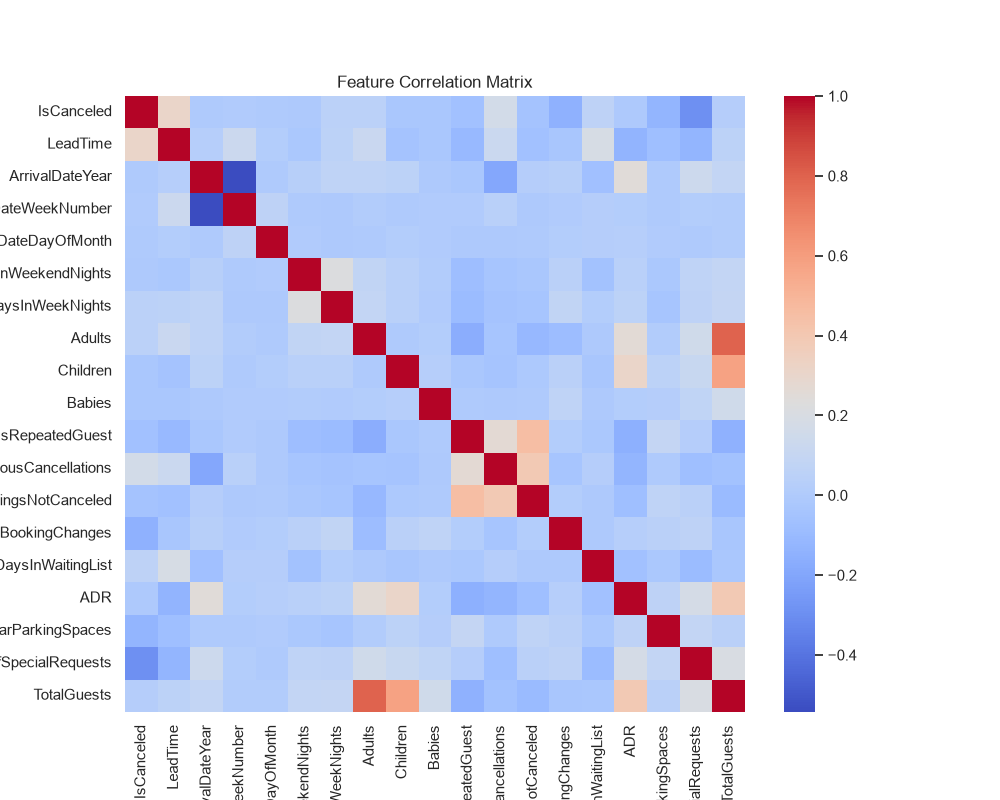
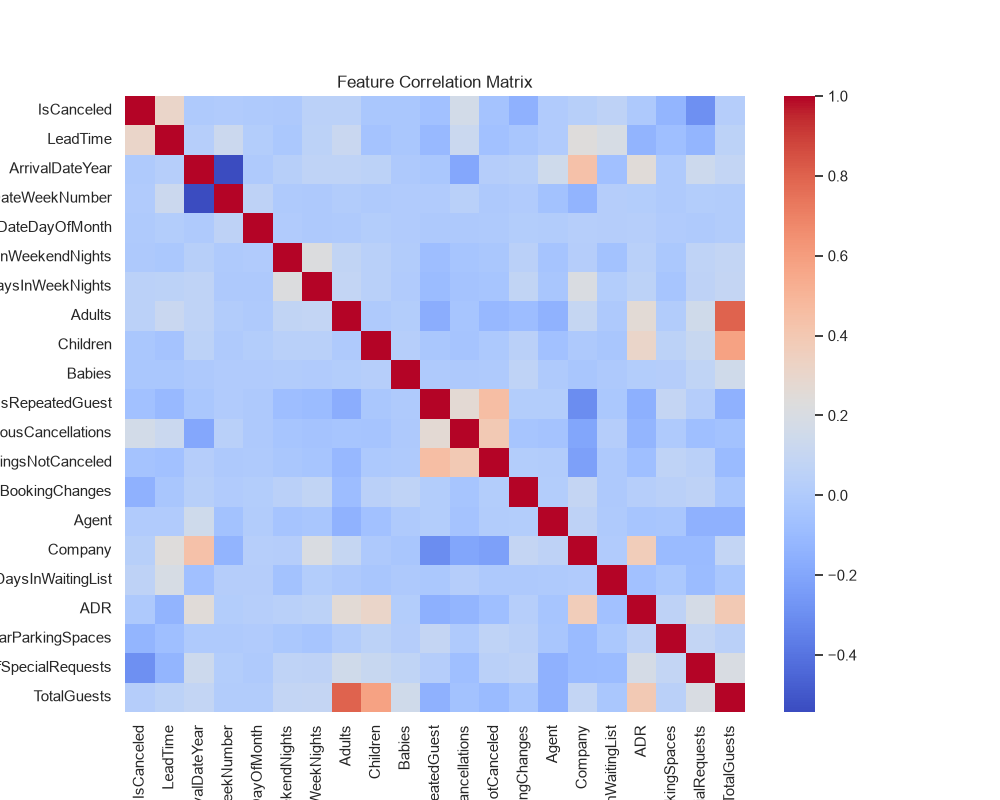
Fix EDA missingness parsing

diff --git a/src/Eda_first.py b/src/Eda_first.py
@@ -17,7 +17,13 @@ if not os.path.exists(data_path):
     print(f"ERROR: {data_path} not found. Please ensure H2.csv is placed in the data/ directory.")
     exit()
 
-df = pd.read_csv(data_path)
+# --- UPDATED PARSING TO MATCH CLEANING SCRIPT ---
+missing_markers = ['NULL', 'null', '', ' ', '   ', 'NaN', 'nan']
+df = pd.read_csv(data_path, na_values=missing_markers, skipinitialspace=True)
+df.replace(r'^\s*NULL\s*$', np.nan, regex=True, inplace=True)
+df.replace(r'^\s*$', np.nan, regex=True, inplace=True)
+# -----------------------------------------------
+
 print(f"Successfully loaded H2.csv with shape: {df.shape}")  # Should be (79330, 31)
 
 # ==========================================
@@ -140,7 +146,5 @@ print(f"Constant/Zero-variance columns to drop: {constant_cols}")
 leakage_candidates = ['ReservationStatus', 'ReservationStatusDate', 'BookingChanges']
 present_leakage = [col for col in leakage_candidates if col in df.columns]
 print(f"Identified potential data leakage columns: {present_leakage}")
-
-
 
 print("\n--- Execution Complete! Check 'outputs/' for saved visualizations. ---")

diff --git a/docs/eda_cleaning.md b/docs/eda_cleaning.md
@@ -1,0 +1,94 @@
+# Milestone 1: Data Understanding, EDA & Data Cleaning Report 
+
+**Dataset:** City Hotel (`data/H2.csv` -> `data/H2_cleaned.csv`)
+
+
+
+## 1. Executive Summary & Overview
+
+This document details the exploratory data analysis (EDA), missing value normalization, and data cleaning executed on the City Hotel dataset (`H2.csv`). The processing pipeline handles space-padded null markers, filters pricing anomalies, removes invalid operational logs, and exports a fully sanitized dataset ready for downstream preprocessing and modeling.
+
+* **Initial Raw Dataset Shape:** 79,330 rows × 31 columns
+
+* **Final Cleaned Dataset Shape:** 78,091 rows × 31 columns
+
+* **Total Rows Filtered / Removed:** 1,239 rows
+
+* **Remaining Missing Values:** 0 total nulls across all features
+
+## 2. Ingestion & Missing Value Parsing
+
+In the raw `H2.csv` file, missing values across categorical and identifier columns are represented as literal strings with varying whitespace (e.g., `"NULL"`, `" NULL "`, `" "`). Default pandas ingestion misses these strings, underreporting missingness in columns like `Agent` and `Company`.
+
+To ensure consistent missing-value parsing across EDA (`src/Eda_first.py`) and Cleaning (`src/data_cleaning.py`), explicit `na_values` and regular expressions are applied during loading:
+
+```python
+missing_markers = ['NULL', 'null', '', ' ', '   ', 'NaN', 'nan']
+df = pd.read_csv(data_path, na_values=missing_markers, skipinitialspace=True)
+df.replace(r'^\s*NULL\s*$', np.nan, regex=True, inplace=True)
+df.replace(r'^\s*$', np.nan, regex=True, inplace=True)
+```
+
+### Confirmed Missingness Counts (Raw Ingestion):
+
+* **`Company`**: 75,641 missing values (95.35%) $\rightarrow$ Imputed with `0` (represents direct/individual booking without a corporate sponsor).
+
+* **`Agent`**: 8,131 missing values (10.25%) $\rightarrow$ Imputed with `0` (represents direct booking without a travel agency).
+
+* **`Country`**: 24 missing values (0.03%) $\rightarrow$ Imputed with `'Unknown'`.
+
+* **`Children`**: 4 missing values (0.005%) $\rightarrow$ Imputed with `0`.
+
+## 3. Row Filtering & Exclusion Justifications
+
+| Exclusion Rule | Rows Removed | Rationale & Domain Justification | 
+| ----- | ----- | ----- | 
+| **Non-Positive ADR (**$\text{ADR} \le 0$**)** | 1,208 rows | Non-positive Average Daily Rates distort cost scaling, log transformations, and error evaluation metrics ($\text{RMSE}/\text{MAE}$). | 
+| **Extreme Pricing Outlier (**$\text{ADR} > 1000$**)** | 1 row | Severe single-transaction anomaly ($> \$1000$) that heavily skews linear regression modeling and variance calculations. | 
+| **Zero-Guest Occupancy (**$\text{TotalGuests} = 0$**)** | 30 rows | Bookings logged with 0 adults, 0 children, and 0 babies represent invalid operational logging errors. | 
+
+## 4. Duplicate Rows Handling
+
+* **Raw Duplicate Count:** 25,902 exact duplicate feature rows
+
+* **Cleaned Duplicate Count:** 25,946 exact duplicate feature rows
+
+* **Policy Decision:** **Exact duplicate rows are preserved.**
+
+* **Rationale:** In hotel reservation management, duplicate feature vectors represent legitimate distinct bookings made under identical parameters (e.g., corporate group bookings or standard room reservations for identical dates). Removing them would artificially flatten actual booking frequencies.
+
+## 5. Scope of Data Cleaning & Feature Engineering 
+
+1. **Deterministic Missing Value Imputation:** Fixed-sentinel mapping across all missing values (`Country` $\rightarrow$ `'Unknown'`, `Agent`/`Company`/`Children` $\rightarrow$ `0`).
+
+2. **Data Leakage Elimination:** Global removal of post-booking outcome attributes (`ReservationStatus`, `ReservationStatusDate`) to prevent artificial label leakage.
+
+3. **Feature Construction:** Engineering domain-specific composite variables:
+
+   * `TotalGuests` = `Adults` + `Children` + `Babies`
+
+   * `RoomUpgrade` / `RoomMismatch` = (`ReservedRoomType` $\ne$ `AssignedRoomType`)
+
+4. **Data Sanitization & Export:** Validating and exporting `data/H2_cleaned.csv` with zero remaining nulls.
+
+## 6. Cleaned Dataset Statistical Audit (`data/H2_cleaned.csv`)
+
+### Classification Target Distribution (`IsCanceled`):
+
+* **Class 0 (Not Canceled):** 57.78% (45,119 rows)
+
+* **Class 1 (Canceled):** 42.22% (32,972 rows)
+
+### Average Daily Rate (ADR) Summary:
+
+* **Minimum ADR:** \$0.50
+
+* **Maximum ADR:** \$510.00
+
+* **Mean ADR:** \$106.88
+
+### Overall Data Quality:
+
+* **Total Missing Values:** 0
+
+* **Dataset Shape:** (78,091, 31)
